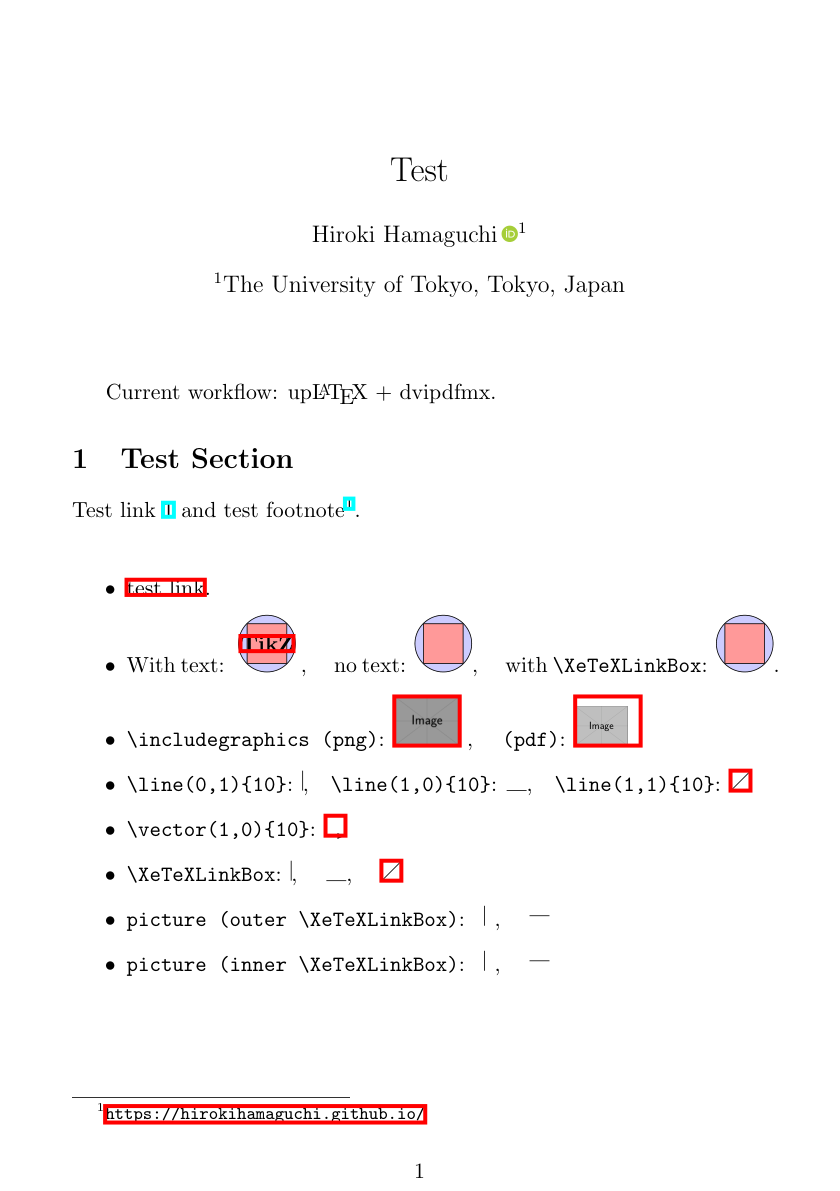
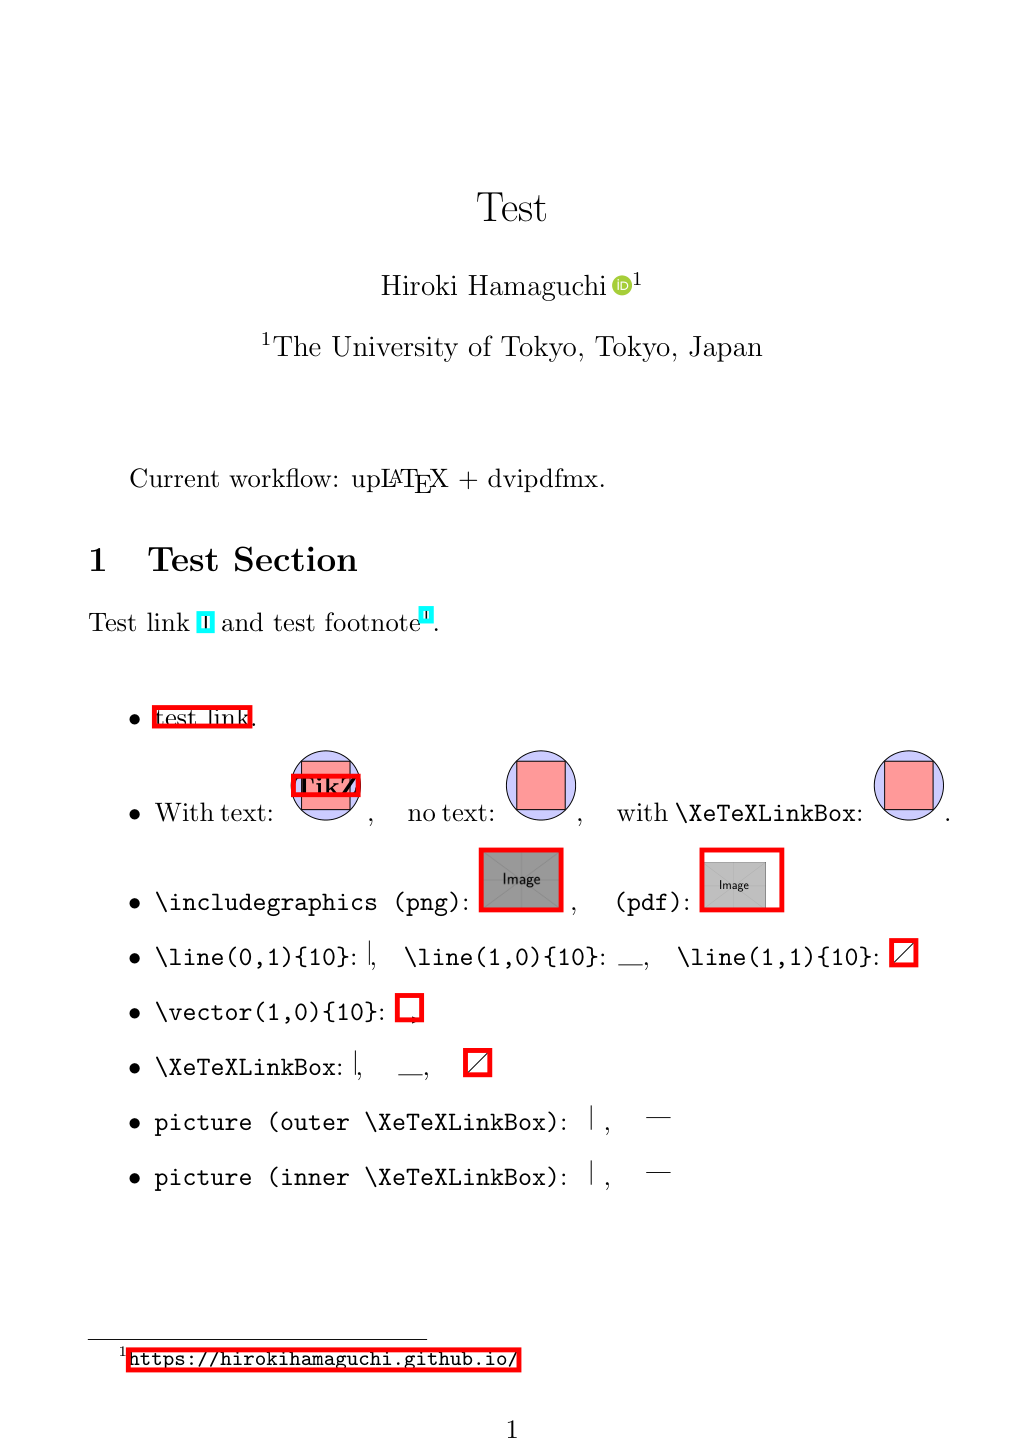
update

diff --git a/20260313_orcidlink/pdf2png.py b/20260313_orcidlink/pdf2png.py
@@ -11,6 +11,7 @@ import pyperclip  # type: ignore
 
 SCRIPT_DIR = Path(__file__).resolve().parent
 OUTPUT_DIR = SCRIPT_DIR / "failed_examples"
+PNG_WIDTH = 1024
 
 
 @dataclass
@@ -191,7 +192,9 @@ def annotate_and_convert_pdf_to_png(pdf_file: Path) -> Path | None:
             shape.commit()
             shape = page.new_shape()  # reset for next rect
 
-    zoom = 2.0
+    page_width = page.rect.width
+    assert page_width > 0, "Page width must be positive"
+    zoom = PNG_WIDTH / page_width
     mat = fitz.Matrix(zoom, zoom)
     pix = page.get_pixmap(matrix=mat)
     output_png = pdf_file.with_suffix(".png")
@@ -216,7 +219,16 @@ def build_markdown_table(caption: str, png_files: List[Path]) -> str:
 
     header_row = "| " + " | ".join(headers) + " |"
     align_row = "| " + " | ".join([":---:"] * len(headers)) + " |"
-    image_row = "| " + " | ".join([f"![]({rel_path})" for rel_path in rel_paths]) + " |"
+    image_row = (
+        "| "
+        + " | ".join(
+            [
+                f"![{rel_path.replace('failed_examples/', '').replace('.png', '')}]({rel_path})"
+                for rel_path in rel_paths
+            ]
+        )
+        + " |"
+    )
     return "\n".join(
         [
             f"Table: {caption}",

diff --git a/20260313_orcidlink/PR.md b/20260313_orcidlink/PR.md
@@ -52,15 +52,15 @@ Table: Raw engine outputs
 
 | latexmk pdflatex | lualatex | pdflatex | xelatex | xelatex xdvipdfmx |
 | :---: | :---: | :---: | :---: | :---: |
-| ![](failed_examples/failed_examples_raw__latexmk_pdflatex.png) | ![](failed_examples/failed_examples_raw__lualatex.png) | ![](failed_examples/failed_examples_raw__pdflatex.png) | ![](failed_examples/failed_examples_raw__xelatex.png) | ![](failed_examples/failed_examples_raw__xelatex_xdvipdfmx.png) |
+| ![failed_examples_raw__latexmk_pdflatex](failed_examples/failed_examples_raw__latexmk_pdflatex.png) | ![failed_examples_raw__lualatex](failed_examples/failed_examples_raw__lualatex.png) | ![failed_examples_raw__pdflatex](failed_examples/failed_examples_raw__pdflatex.png) | ![failed_examples_raw__xelatex](failed_examples/failed_examples_raw__xelatex.png) | ![failed_examples_raw__xelatex_xdvipdfmx](failed_examples/failed_examples_raw__xelatex_xdvipdfmx.png) |
 
 Table: DVI-to-PDF workflow outputs
 
 | platex dvipdfmx | ptex2pdf platex | ptex2pdf uplatex | uplatex dvipdfmx |
 | :---: | :---: | :---: | :---: |
-| ![](failed_examples/failed_examples_dvipdfmx__platex_dvipdfmx.png) | ![](failed_examples/failed_examples_dvipdfmx__ptex2pdf_platex.png) | ![](failed_examples/failed_examples_dvipdfmx__ptex2pdf_uplatex.png) | ![](failed_examples/failed_examples_dvipdfmx__uplatex_dvipdfmx.png) |
+| ![failed_examples_dvipdfmx__platex_dvipdfmx](failed_examples/failed_examples_dvipdfmx__platex_dvipdfmx.png) | ![failed_examples_dvipdfmx__ptex2pdf_platex](failed_examples/failed_examples_dvipdfmx__ptex2pdf_platex.png) | ![failed_examples_dvipdfmx__ptex2pdf_uplatex](failed_examples/failed_examples_dvipdfmx__ptex2pdf_uplatex.png) | ![failed_examples_dvipdfmx__uplatex_dvipdfmx](failed_examples/failed_examples_dvipdfmx__uplatex_dvipdfmx.png) |
 
-この結果の生成方法は、[私のGitHubリポジトリ](https://github.com/hiroki-hamaguchi/20260313_orcidlink)で確認できます。
+この結果の生成方法は、[私のGitHubリポジトリ](https://github.com/HirokiHamaguchi/QiitaArticles/tree/main/20260313_orcidlink)で確認できます。
 
 この結果から、確かにdvipdfmxなどでコンパイルした場合は、\XeTeXLinkBoxコマンドだけでは、対応できていない例があることがわかります。
 
